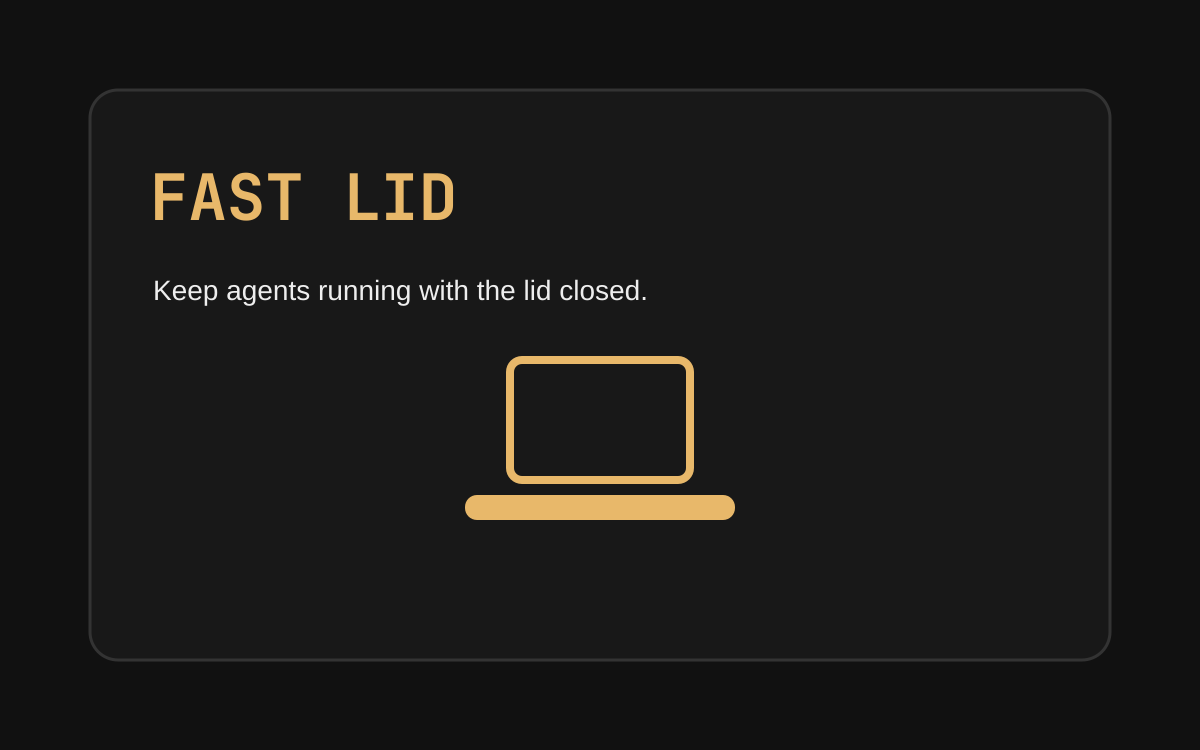
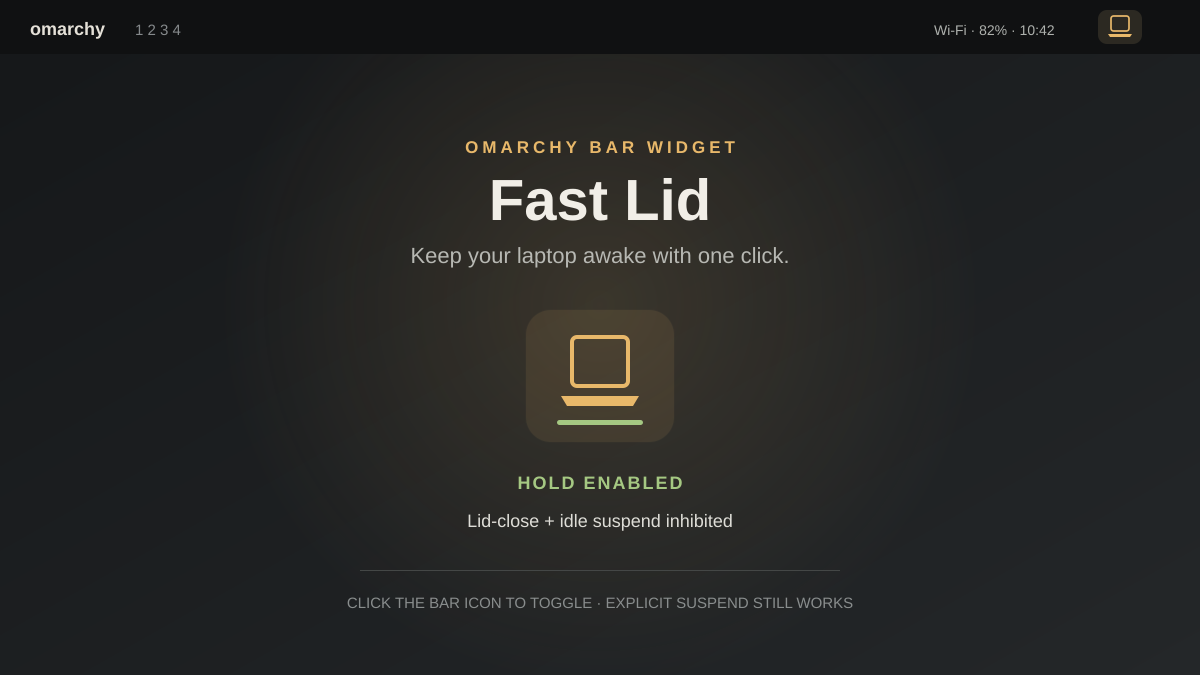
docs: present Fast Lid like Cobalt

diff --git a/README.md b/README.md
@@ -1,71 +1,24 @@
-# Fast Lid
+<h1 align="center">Fast Lid</h1>
+<p align="center">Keep your laptop awake with one click. An unofficial <a href="https://omarchy.org">Omarchy</a> bar widget.</p>
 
-A one-click toggle in the Omarchy bar that keeps AI agents working when the
-laptop lid is closed.
-
-![Fast Lid](https://img.shields.io/badge/Omarchy-bar%20widget-blue)
-
-## What it does
-
-- **Enabled** — holds a `systemd-inhibit` block lock on `handle-lid-switch` and
-  `idle`. Closing the lid no longer suspends the machine, and neither does the
-  idle timeout. Agents keep their terminal sessions, network, and CPU.
-- **Disabled** — releases the lock and restores the normal lid behavior.
-
-A plain laptop means the hold is on; a slashed laptop means it is off. Click
-it once to toggle. The screen still locks normally; only suspend is
-suppressed.
-
-## Dependencies
-
-Fast Lid uses the `systemd-inhibit` command already provided by systemd and
-Omarchy's `omarchy-notification-send` helper. It does not install packages,
-modify system configuration, or require an account or network connection.
-
-## Safety
-
-A closed laptop with running agents can get hot and will drain the battery.
-Keep the vents clear, do not leave it running closed inside a bag, and watch
-the battery level. An explicit suspend or shutdown, and a critical-battery
-action, are **not** blocked.
-
-## Multi-monitor
-
-The inhibitor runs in a single service, shared by every bar surface. Clicking
-the icon on any monitor toggles the same machine-wide hold, and every icon
-updates from the same state.
-
-## Shell restarts
-
-The inhibitor is owned by the plugin service. If the Omarchy shell restarts or
-the plugin is disabled/removed, the process is torn down and the lid returns to
-its normal behavior. Click the icon again after a shell restart.
+<p align="center"><img src="preview.png" width="100%" alt="Fast Lid concept illustration showing the enabled state" /></p>
 
 ## Install
 
-```bash
-omarchy plugin validate ~/.config/omarchy/plugins/clouddown.fast-lid
-omarchy-shell shell rescanPlugins
-omarchy plugin enable clouddown.fast-lid right --before omarchy.power
+```sh
+omarchy plugin add https://github.com/CloudDown/fast-lid.git --enable
 ```
 
-## Removing
+Remove: `omarchy plugin remove clouddown.fast-lid`.
 
-```bash
-omarchy plugin disable clouddown.fast-lid
-omarchy plugin remove clouddown.fast-lid
-```
+## Usage
 
-Disabling the plugin destroys the service, which releases the inhibitor.
-Fast Lid writes no persistent files. Removing it leaves no service, process,
-configuration change, or other plugin state behind.
+Click the laptop icon in the bar to toggle Fast Lid. A solid laptop means the
+hold is on; a slashed laptop means it is off. The hold is shared across bar
+surfaces and ends when the plugin service stops.
 
-## Files
+Fast Lid inhibits lid-close and idle suspend only. Explicit suspend, shutdown,
+and critical-battery actions are not blocked. A closed laptop can get hot and
+drain its battery: keep vents clear and never leave it running closed in a bag.
 
-- `manifest.json` — declares the Fast Lid bar widget and its shared service.
-- `BarWidget.qml` — the bar icon and click handler.
-- `Service.qml` — the single `systemd-inhibit` process and IPC surface.
-
-## License
-
-MIT
+<p align="center"><a href="docs/GUIDE.md">Guide</a> · MIT · No network access or external account required.</p>

diff --git a/docs/GUIDE.md b/docs/GUIDE.md
@@ -1,0 +1,47 @@
+# Fast Lid guide
+
+Fast Lid is an Omarchy bar toggle for keeping a laptop awake while its lid is
+closed or it is otherwise idle. It is intended for long-running terminal work,
+including AI agent sessions.
+
+## How it works
+
+When enabled, the shared plugin service runs `systemd-inhibit` with a block lock
+for `handle-lid-switch:idle`. Disabling the toggle releases the lock. The
+service owns the process, so a shell restart, plugin disable, or removal ends
+the hold and restores normal logind behavior.
+
+The inhibit does not cover explicit sleep or shutdown. It does not prevent a
+critical-battery action. It does not change logind, Hyprland, or other user
+configuration.
+
+## Bar control
+
+- Solid laptop icon: hold enabled.
+- Slashed laptop icon: hold disabled.
+- Click either icon on any bar surface to toggle the shared state.
+- The `clouddown.fast-lid` shell toggle can also be used from Omarchy's shell
+  interface.
+
+## Safety
+
+A laptop running closed can overheat and consume battery quickly. Keep vents
+unobstructed, do not place a running laptop in a bag, and monitor its battery
+and temperature.
+
+## Install and remove
+
+```sh
+omarchy plugin add https://github.com/CloudDown/fast-lid.git --enable
+omarchy plugin remove clouddown.fast-lid
+```
+
+Fast Lid uses Omarchy's `omarchy-notification-send` helper and systemd's
+`systemd-inhibit`; both are provided by a standard Omarchy installation. It
+does not download software, access the network, or write persistent state.
+Removing the plugin leaves no process, service, configuration change, or
+plugin-owned data behind.
+
+## License
+
+MIT. See [`../LICENSE`](../LICENSE).
